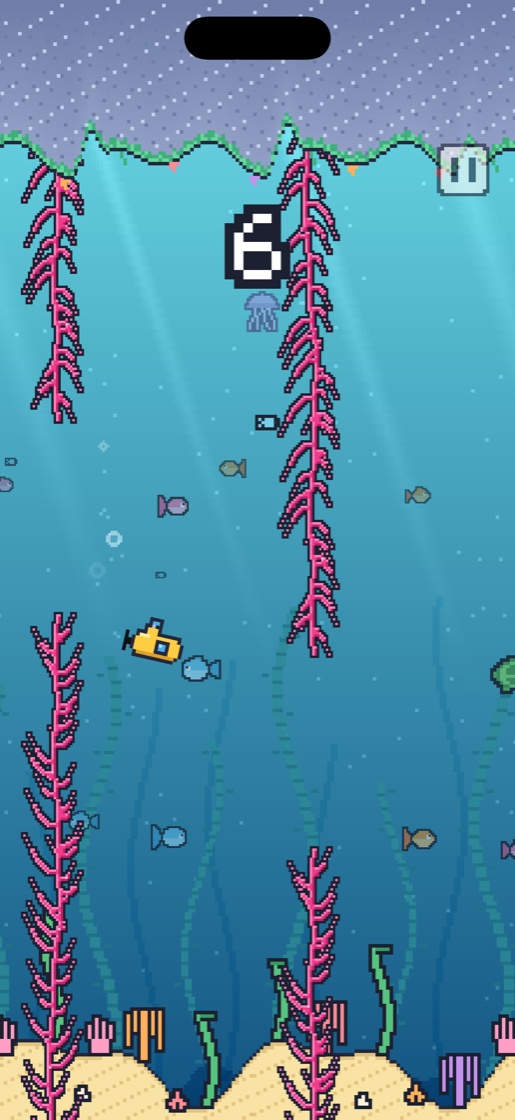
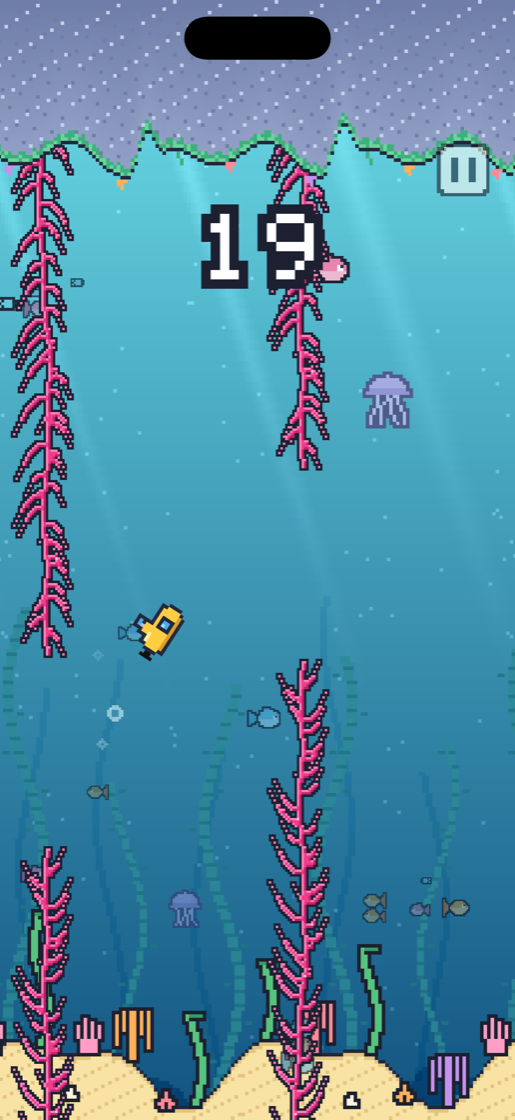
Refresh the screenshots onto the yellow hull
The three shots predated the icon buttons and the flattened button edges, and
the selector one was taken on a seeded rainbow hull. All three are recaptured
from the same run with the starter submarine equipped, which is both what a
new player sees and the boat on the app icon.

Alt text follows the images.

diff --git a/index.html b/index.html
@@ -120,8 +120,8 @@ footer p{margin:5px 0; font-size:.82rem; color:#5E838E}
 
     <div class="shots">
       <img src="shot-title.png" alt="The Sinky Sub title screen, a yellow submarine bobbing beneath the logo in a coral reef." width="515" height="1120">
-      <img src="shot-selector.png" alt="The submarine selector, showing a rainbow-striped hull named PRISM with arrows to browse and a button to equip it." width="515" height="1120">
-      <img src="shot-gameplay.png" alt="Gameplay: the submarine flying level between two tall pink coral columns." width="515" height="1120">
+      <img src="shot-selector.png" alt="The submarine selector, showing the yellow starter hull marked EQUIPPED, with arrows for browsing the rest." width="515" height="1120">
+      <img src="shot-gameplay.png" alt="Gameplay: the yellow submarine diving between tall pink coral columns, score 19." width="515" height="1120">
     </div>
   </div>
   <div class="floor"></div>
